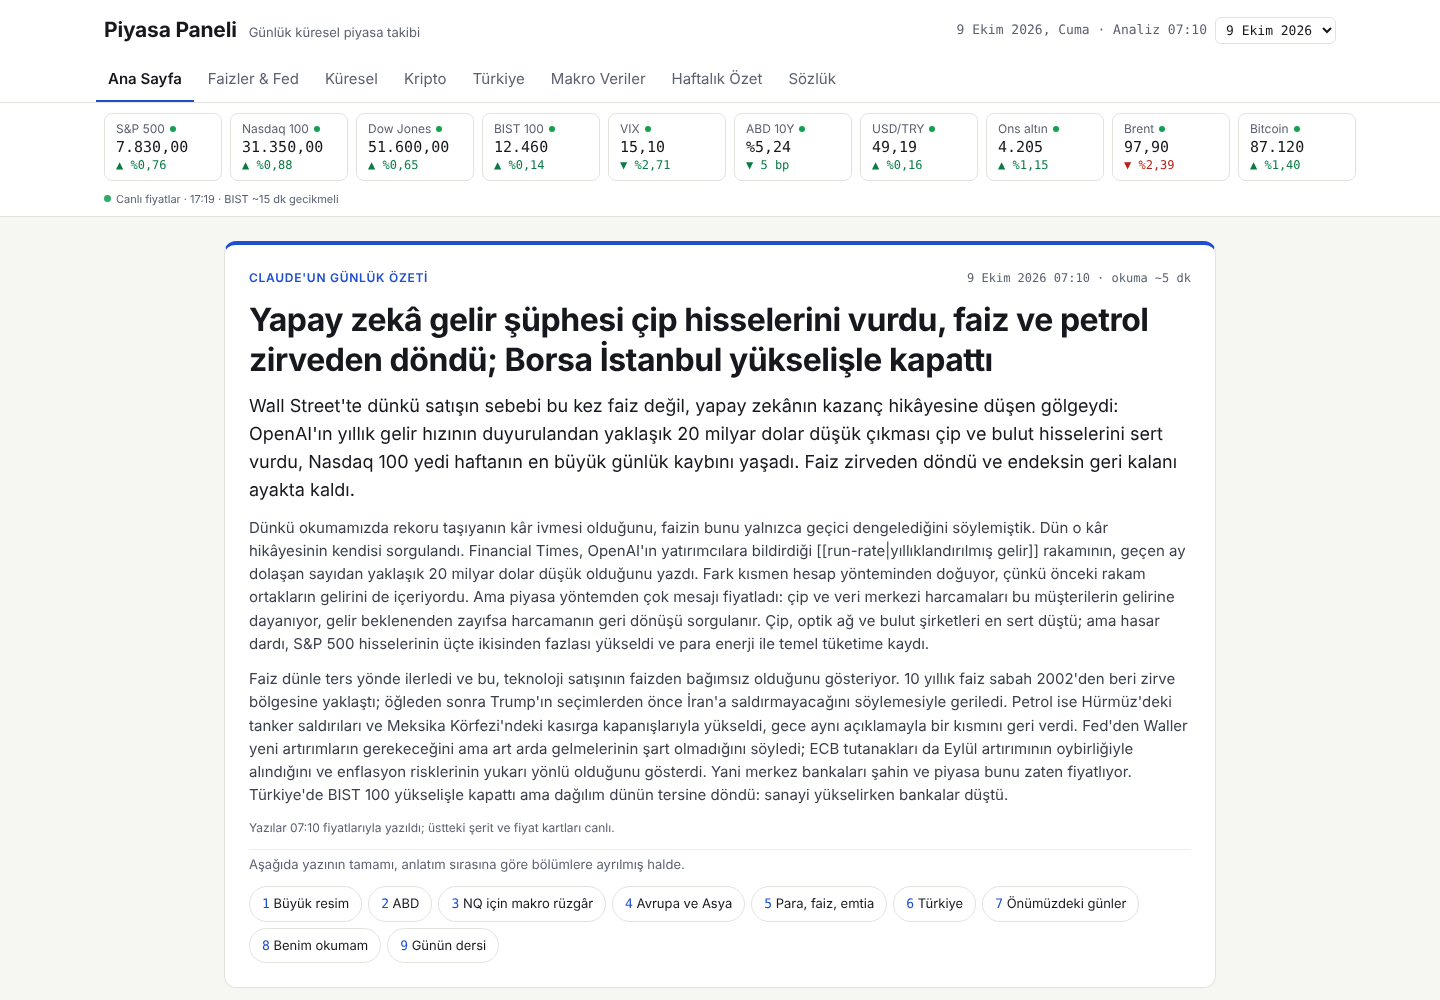
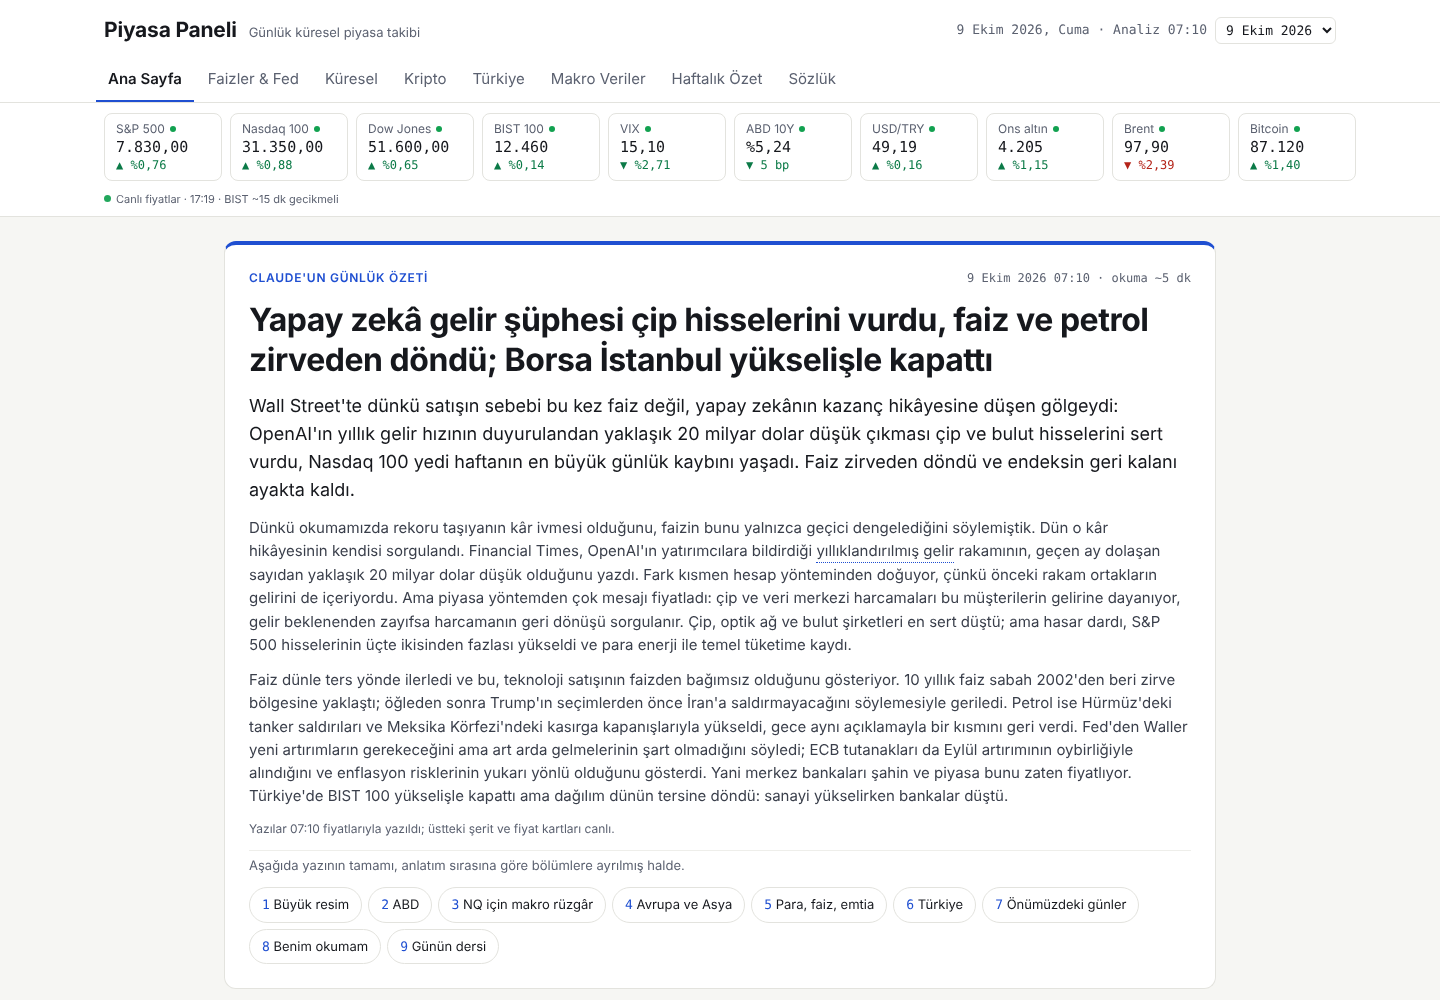
Özet paragraflarında sözlük bağlantıları çalışsın
Claude-Session: https://claude.ai/code/session_01PyV5iWvnsn743266Moab4y

diff --git a/assets/pages/index.js b/assets/pages/index.js
@@ -206,7 +206,7 @@ async function main() {
     <div class="head-row"><span class="eyebrow accent">Claude'un günlük özeti</span><span class="mono xs muted">${esc(dateTR(date, false))} ${esc(D.updated)} · okuma ~${S.read_min || 5} dk</span></div>
     <h1>${esc(S.headline)}</h1>
     <p class="lede">${esc(S.lede)}</p>
-    ${paras(S.paragraphs, 'body')}
+    ${map(S.paragraphs, (p) => `<p class="body">${withTerms(p)}</p>`)}
     <span class="xs muted">Yazılar ${esc(D.updated)} fiyatlarıyla yazıldı; üstteki şerit ve fiyat kartları canlı.</span>
     <span class="small muted" style="padding-top:4px;border-top:1px solid var(--line-soft)">Aşağıda yazının tamamı, anlatım sırasına göre bölümlere ayrılmış halde.</span>
     <nav class="toc" aria-label="Anlatım sırası">${TOC.filter(([id]) => id !== 'nq' || D.nq).map(([id, t]) => `<a href="#${id}"><b>${NUM[id]}</b> ${esc(t)}</a>`).join('')}</nav>

diff --git a/assets/app.js b/assets/app.js
@@ -127,7 +127,8 @@ export function kpi(k, cls = '') {
 }
 
 export function paras(list, cls = '') {
-  return map(list, (p) => `<p class="${cls}">${esc(p)}</p>`);
+  // [[id|metin]] işaretini düz metne çevir (terim kutusu olmayan sayfalar için)
+  return map(list, (p) => `<p class="${cls}">${esc(String(p).replace(/\[\[[^|\]]+\|([^\]]+)\]\]/g, '$1'))}</p>`);
 }
 
 export function lessonBox(l, eyebrow) {
